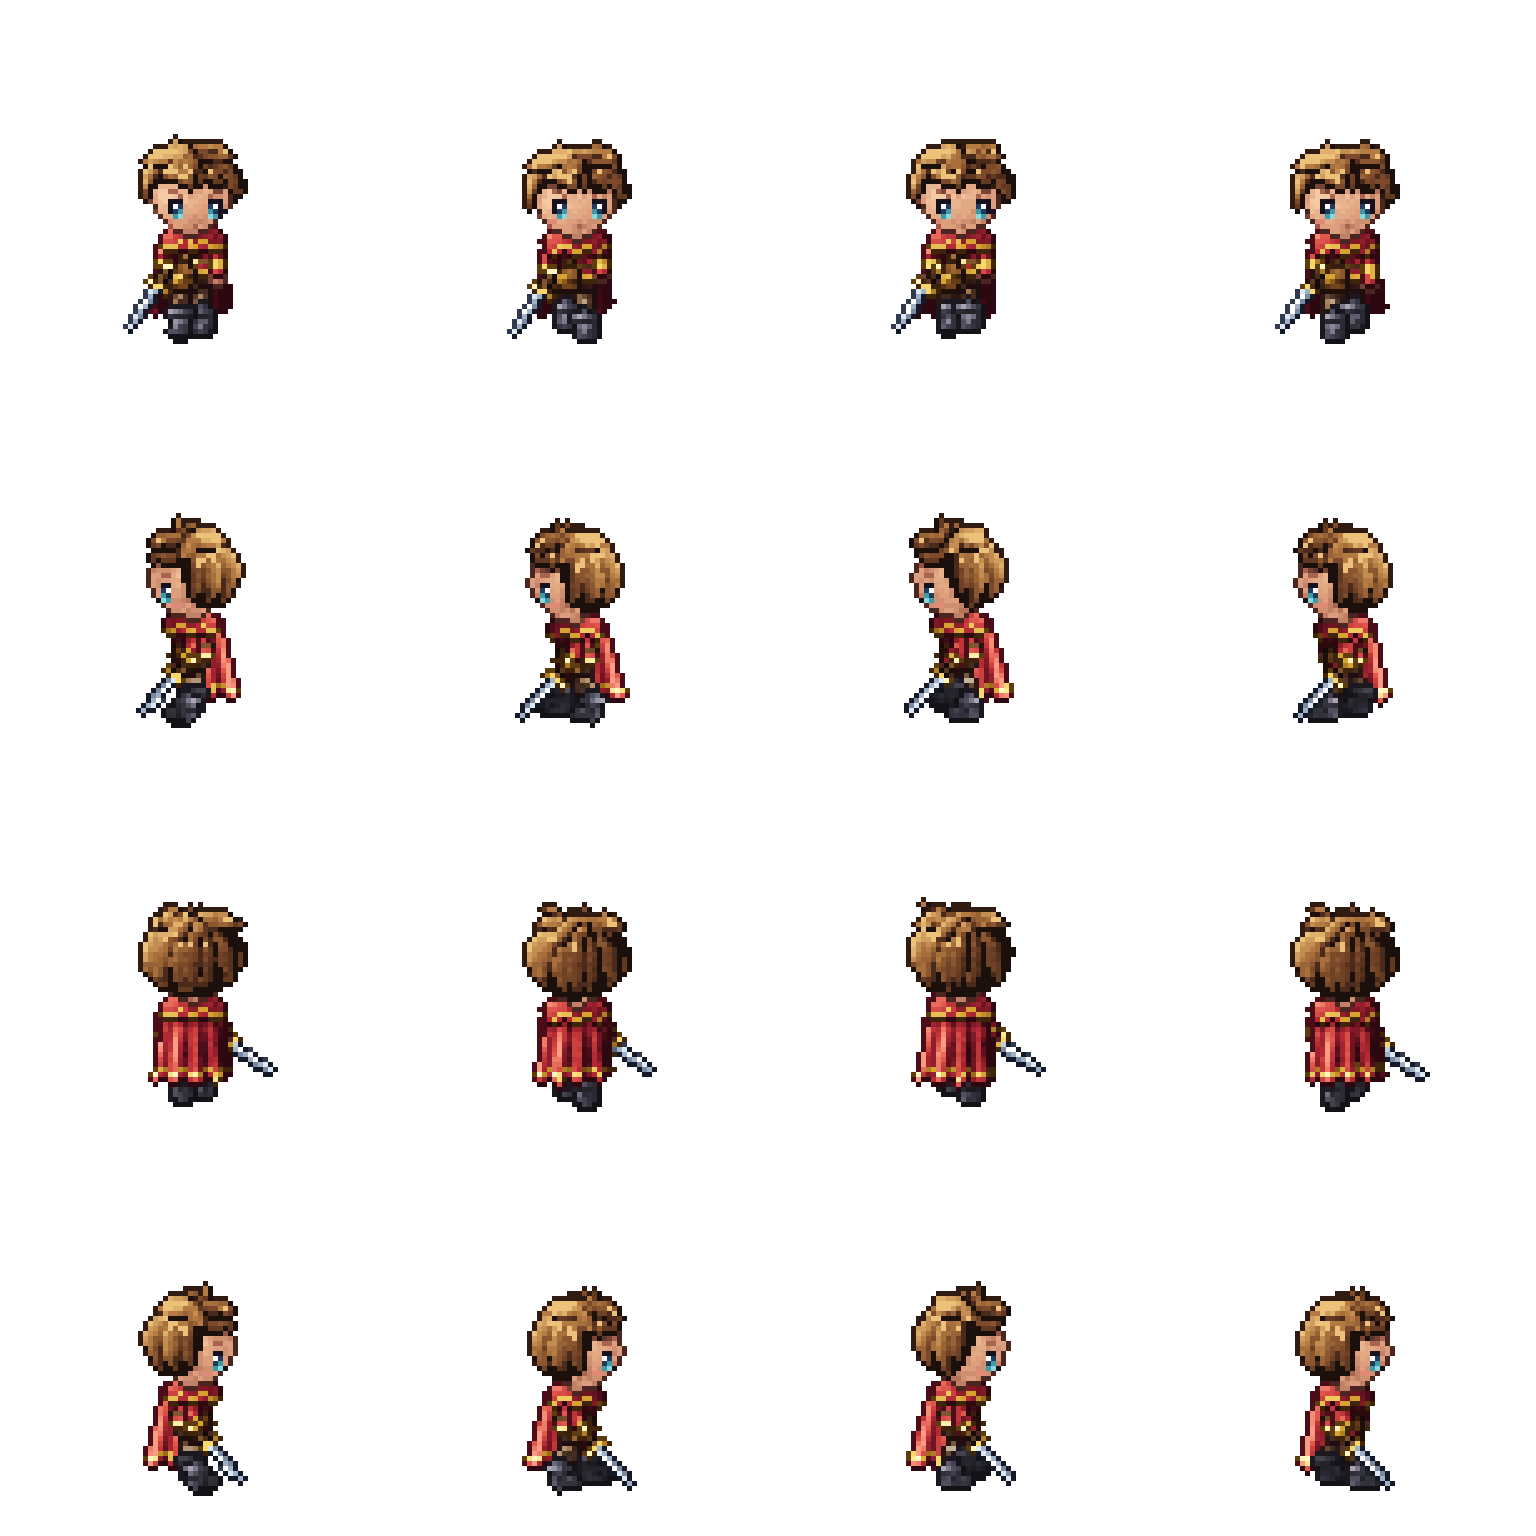
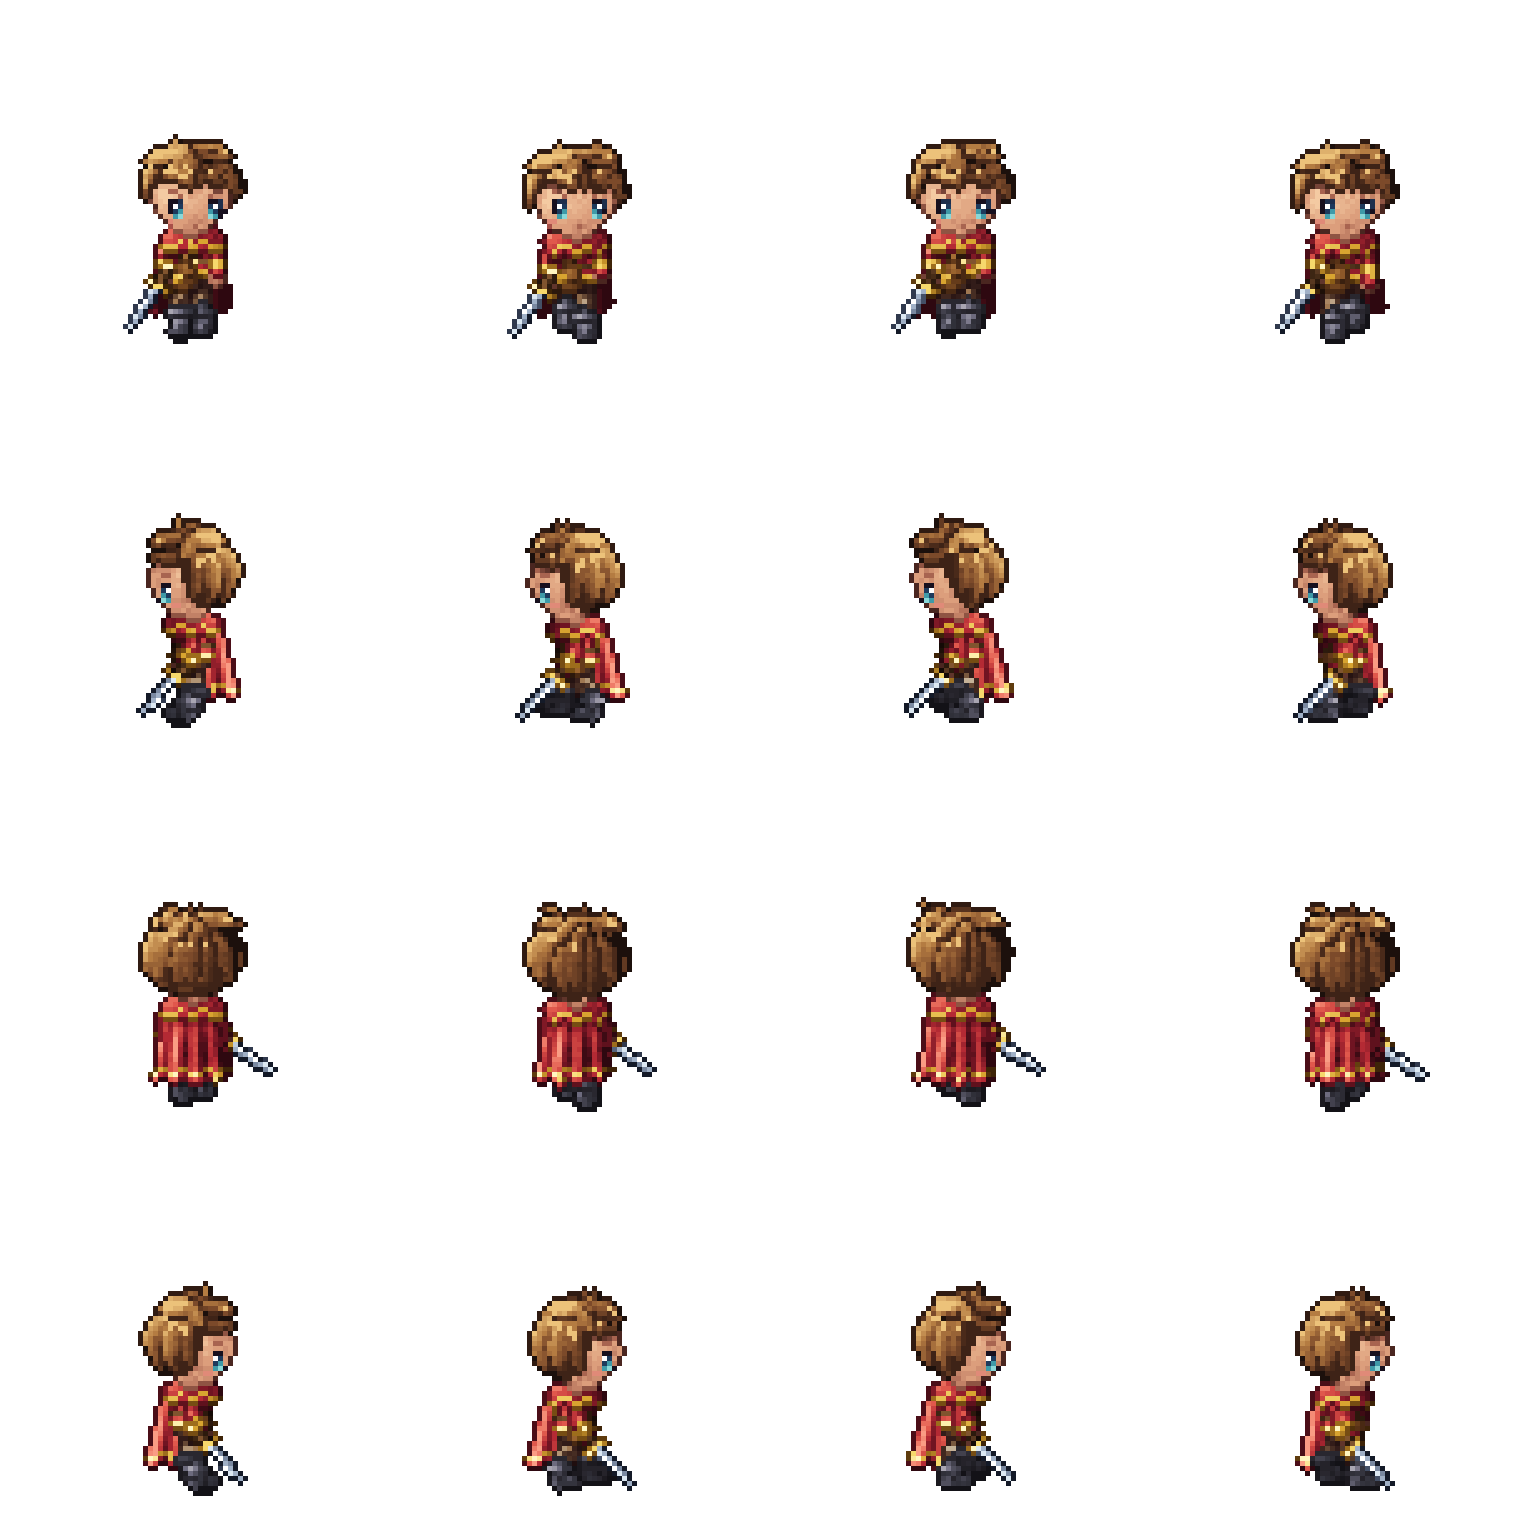
Character sprites: recolor interior outlines with each part's own dark tone
Outline pixels that land on another part's body are interior lines,
so they now use the part's own dark shade (0.75 step) instead of the
near-black outline; the outer silhouette keeps the dark outline.
Outline share of a frame drops from ~30% to ~14%, leaving room for
the tone transitions. Docs and exports updated.

Claude-Session: https://claude.ai/code/session_01JLEecThURYQTCHEQgBW1W6

diff --git a/hd2d-walk-demo/src/pixel/PixelLayer.ts b/hd2d-walk-demo/src/pixel/PixelLayer.ts
@@ -202,8 +202,16 @@ export class PixelLayer {
     }
   }
 
-  /** 把本层盖到 dst 上（非空像素覆盖）。可带偏移。 */
-  drawOnto(dst: PixelLayer, ox = 0, oy = 0): void {
+  /**
+   * 把本层盖到 dst 上（非空像素覆盖）。可带偏移。
+   *
+   * innerLine：内描边改色。本层的描边像素如果落在 dst 已有的「本体」像素上，
+   * 说明这一段是部件之间的内部线条，不是人物外轮廓，就改用本部件自己的暗部色
+   * （深描边 → innerLine 阶，浅描边 → 再亮半阶）。外轮廓仍保留深描边。
+   * 小尺寸精灵里描边占比很高，换成有颜色的内线后，色阶过渡才有空间显出来。
+   */
+  drawOnto(dst: PixelLayer, ox = 0, oy = 0, innerLine?: number): void {
+    const OUT = shadeCode(OUTLINE), SOFT = shadeCode(SOFT_OUTLINE);
     const map = this.palettes.map((p) => {
       let i = dst.palettes.indexOf(p);
       if (i < 0) {
@@ -221,7 +229,12 @@ export class PixelLayer {
         const tx = x + ox;
         if (tx < 0 || tx >= dst.w) continue;
         const di = ty * dst.w + tx;
-        dst.idx[di] = v;
+        const under = dst.idx[di];
+        if (innerLine !== undefined && (v === OUT || v === SOFT) && under && under !== OUT && under !== SOFT) {
+          dst.idx[di] = shadeCode(v === OUT ? innerLine : innerLine + 0.5);
+        } else {
+          dst.idx[di] = v;
+        }
         dst.pid[di] = map[this.pid[y * this.w + x]];
       }
     }

diff --git a/hd2d-walk-demo/src/character/paperdoll.ts b/hd2d-walk-demo/src/character/paperdoll.ts
@@ -41,6 +41,9 @@ function shadowTaps(): [number, number, number][] {
   return taps;
 }
 
+/** 部件之间的内描边用哪一阶（见 PixelLayer.drawOnto）：0.75 = 介于描边色和暗部之间 */
+export const INNER_LINE = 0.75;
+
 const SLOT_ORDER: (Slot | 'body')[] = [
   'body', 'bottom', 'shoes', 'top', 'bag', 'scarf', 'hair', 'weapon_off', 'weapon_main',
 ];
@@ -128,6 +131,6 @@ export function composeFrame(entries: LoadoutEntry[], dir: Dir5, frame: number, 
       tmp.outline();
       out.castShadow(tmp, shadowTaps());
     }
-    tmp.drawOnto(out);
+    tmp.drawOnto(out, 0, 0, INNER_LINE);
   }
 }

diff --git a/docs/CHARACTER_SPRITES.md b/docs/CHARACTER_SPRITES.md
@@ -17,7 +17,7 @@
 | 比例 | Q 版约 2.1 头身：头大，身体短，手脚小 |
 | 色阶 | 每个部件 5 个手写色，相邻两色之间在 OKLab 里自动插 3 个过渡色，共 17 阶；色阶交界用 4 × 4 Bayer 有序抖动打散 |
 | 最暗阶 | 直接用描边色：深阴影和轮廓融成一片，形体更有分量 |
-| 描边 | 自动 1px。受光侧（左、上）用浅描边，背光侧（右、下）用深描边 |
+| 描边 | 自动 1px。外轮廓：受光侧（左、上）用浅描边，背光侧（右、下）用深描边。部件之间的内描边（压在别的部件上的那一段）改用本部件自己的暗色（0.75 阶），不再是近黑的线 |
 | 光源 | 统一在左上偏前，即 `Brush.ts` 中的 `LX, LY, LZ` |
 | 粗粝感 | 量化前叠加斑块噪声（`g.grit`）。布料 0.16–0.26；皮肤 0.07–0.08，保持干净 |
 | 体积光影 | 自上而下的整体渐变（`g.vgrad` = 0.24）；上层部件往右下投约 2 像素的接触阴影；暗面贴着轮廓的一圈有反光 |
@@ -89,6 +89,7 @@
 - 自动派生：相邻两色之间在 OKLab（感知均匀的色彩空间）里插 3 个过渡色，共 17 阶（0、0.25 … 4）。暗部偏冷、亮部偏暖的色相差会被平滑带过去，不会发灰。另外派生受光侧的浅描边（描边色 55% + 暗部色 45%）。
 - 绘制时写的是明暗阶，不写颜色：`g.t(lam, bias)` 把光照算成 0–4 的连续值，再按 Bayer 阈值落到相邻两档之一（`g.dither = false` 可关闭抖动）；`tone()` 是不抖动的版本。`DARKEN / LIGHTEN` 在已有像素上调亮或调暗一阶。
 - 合成时自动加两种过渡，不用在装备里写：上层部件对下层的接触阴影（`PixelLayer.castShadow`），和暗面轮廓处的反光（`PixelLayer.bounce`）。
+- 内描边改色也在合成时自动完成（`PixelLayer.drawOnto` 的 `innerLine`，值为 `paperdoll.ts` 的 `INNER_LINE`）。小尺寸精灵里描边原本占画面约 30%，改色后降到约 14%，色阶过渡才有空间显出来。装备里不需要、也不应该手动画内部的黑线。
 - 只给一个主色时，用 `ramp(id, '#rrggbb')` 自动生成暗部偏冷、亮部偏暖的五阶。手写的 `pal(id, c0..c4)` 用于需要精确控制的部件，如皮肤、头发、金属。
 - 调色板的 `id` 全局唯一，sheet 缓存以它为键。
 
